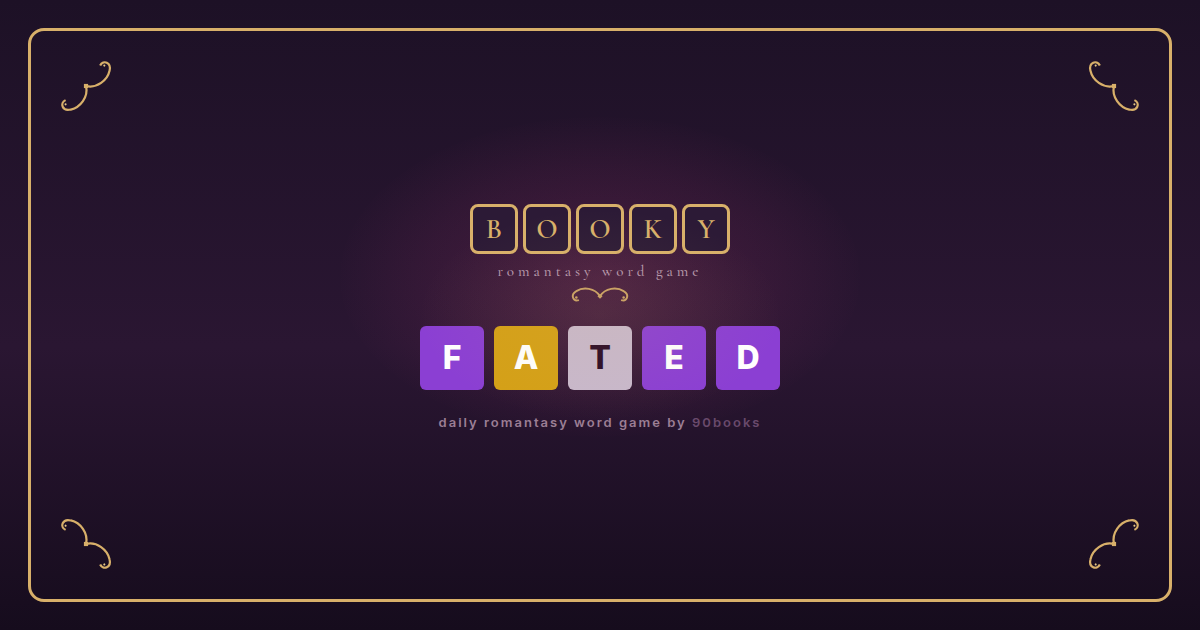
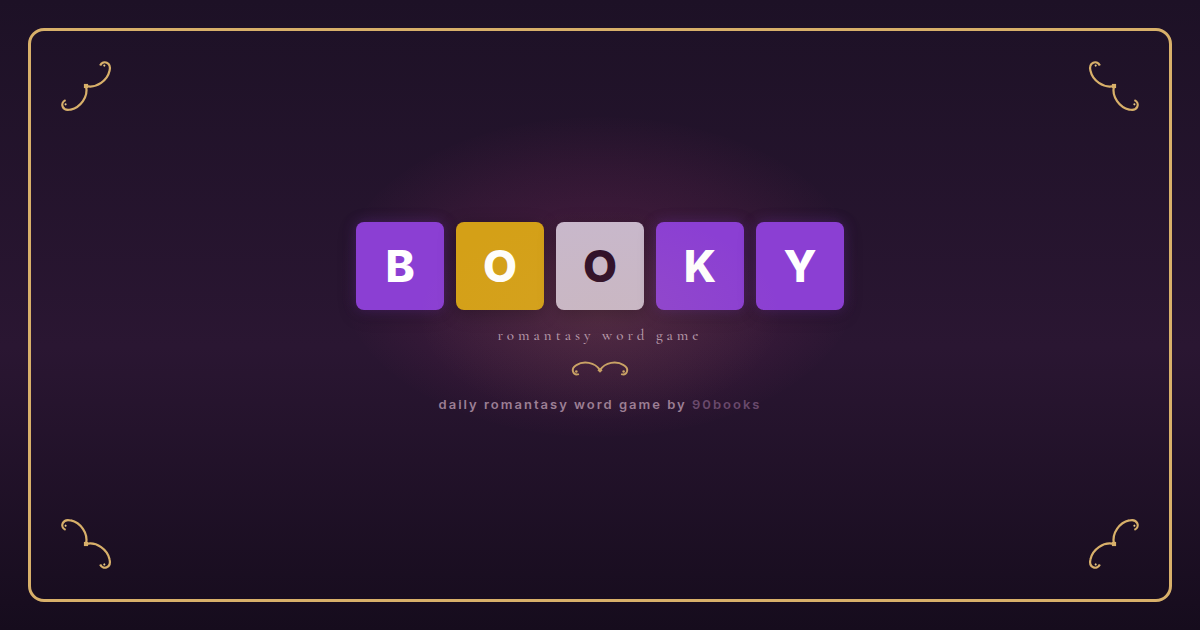
Make og:image official: single BOOKY tile row in game colors
Drop the gold author-promo wordmark row; the colorful purple/gold/gray
tile row spelling BOOKY is the default brand lockup for link previews.

Changed region(s): [[0.2775, 0.3016, 0.7092, 0.6937]]

diff --git a/booky/styles.css b/booky/styles.css
@@ -1048,48 +1048,45 @@ body.og-image-page::after {
   background: transparent;
   box-shadow: none;
 }
-.og-image-page .booky-tiles span {
-  width: 48px;
-  height: 50px;
-  font-size: 28px;
-  border-color: #d8b06a;
-  color: #d8b06a;
-  background: #2c1a36;
-  border-radius: 8px;
-  border-width: 3px;
-}
-.og-image-page .promo-tagline {
-  font-size: 15px;
-  letter-spacing: 4px;
-  color: #b496ac;
-}
-.og-image-page .promo-flourish-svg {
-  width: 64px;
-  margin-top: 6px;
-  color: #d8b06a;
-}
-.og-image-page .og-demo-grid {
+.og-image-page .promo-brand {
   display: flex;
-  gap: 10px;
-  margin-top: 4px;
+  flex-direction: column;
+  align-items: center;
+  gap: 16px;
 }
-.og-image-page .og-demo-grid span {
-  width: 64px;
-  height: 64px;
-  border-radius: 6px;
+.og-image-page .og-word-row {
+  display: flex;
+  gap: 12px;
+}
+.og-image-page .og-word-row span {
+  width: 88px;
+  height: 88px;
+  border-radius: 8px;
   display: flex;
   align-items: center;
   justify-content: center;
   font-family: var(--font-sans);
-  font-size: 32px;
+  font-size: 44px;
   font-weight: 800;
   color: #fff;
+  box-shadow: 0 4px 18px rgba(0, 0, 0, 0.28);
 }
-.og-image-page .og-demo-grid .correct { background: var(--correct); }
-.og-image-page .og-demo-grid .present { background: var(--present); }
-.og-image-page .og-demo-grid .absent  { background: var(--absent); color: var(--ink); }
+.og-image-page .og-word-row .correct { background: var(--correct); box-shadow: 0 0 14px var(--shadow-correct), 0 4px 18px rgba(0, 0, 0, 0.28); }
+.og-image-page .og-word-row .present { background: var(--present); }
+.og-image-page .og-word-row .absent  { background: var(--absent); color: var(--ink); }
+.og-image-page .promo-tagline {
+  font-size: 15px;
+  letter-spacing: 4px;
+  color: #b496ac;
+  margin: 0;
+}
+.og-image-page .promo-flourish-svg {
+  width: 64px;
+  margin: 0;
+  color: #d8b06a;
+}
 .og-image-page .promo-footer {
-  margin-top: 6px;
+  margin-top: 0;
   font-size: 13px;
   letter-spacing: 2px;
   color: #9c7f95;

diff --git a/booky/og-image.html b/booky/og-image.html
@@ -49,8 +49,12 @@
   </svg>
 
   <div class="promo-brand">
-    <div class="booky-tiles" aria-hidden="true">
-      <span>B</span><span>O</span><span>O</span><span>K</span><span>Y</span>
+    <div class="og-word-row" role="img" aria-label="Booky">
+      <span class="correct">B</span>
+      <span class="present">O</span>
+      <span class="absent">O</span>
+      <span class="correct">K</span>
+      <span class="correct">Y</span>
     </div>
     <p class="promo-tagline">romantasy word game</p>
     <svg class="promo-flourish-svg" viewBox="-50 -16 100 28" fill="none" aria-hidden="true">
@@ -60,14 +64,6 @@
       <circle cx="37" cy="2" r="2" fill="currentColor"/>
       <circle cx="-37" cy="2" r="2" fill="currentColor"/>
     </svg>
-  </div>
-
-  <div class="og-demo-grid" aria-hidden="true">
-    <span class="correct">F</span>
-    <span class="present">A</span>
-    <span class="absent">T</span>
-    <span class="correct">E</span>
-    <span class="correct">D</span>
   </div>
 
   <p class="promo-footer">daily romantasy word game by <strong>90books</strong></p>
